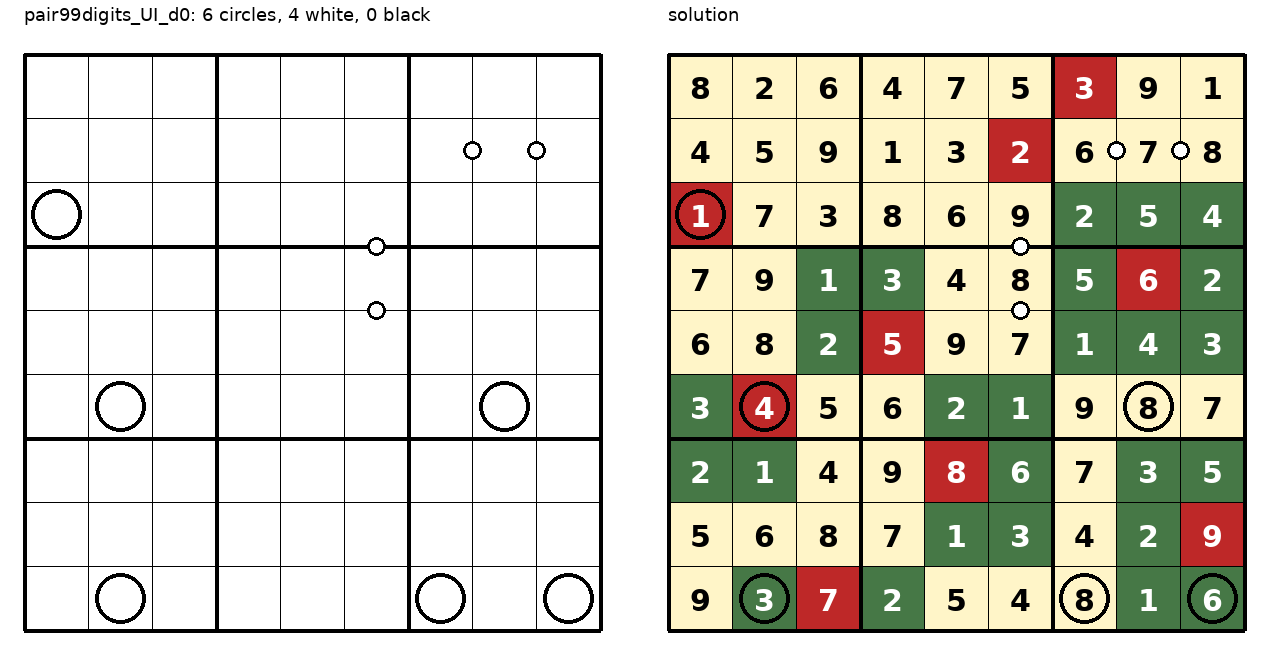
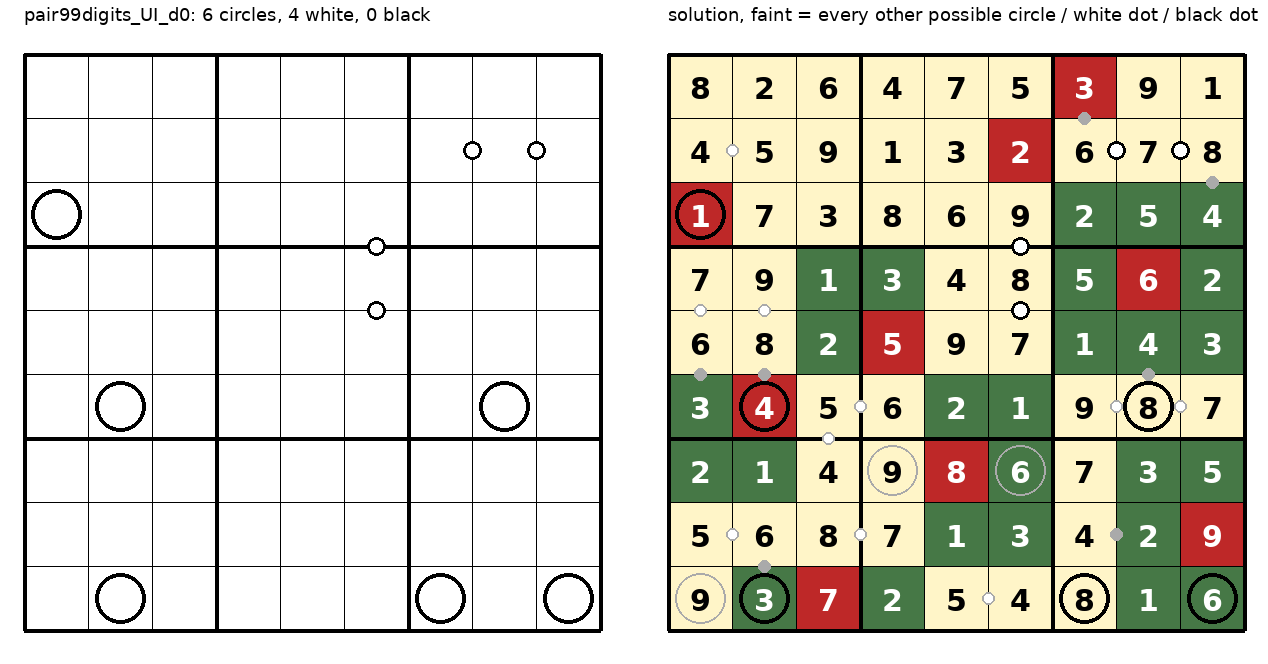
zombo-brainanas: unique renders show every possible clue faintly on the solution

diff --git a/docs/research/zombo-brainanas/tools/render_unique.py b/docs/research/zombo-brainanas/tools/render_unique.py
@@ -1,5 +1,6 @@
 """render_unique.py unique.json out.png — two panels: the puzzle as presented (circles + dots on an empty grid)
-and the solution (digits, shading: green infected, red patient zero, cream uninfected) with the same clues."""
+and the solution (digits, shading: green infected, red patient zero, cream uninfected) with the chosen clues in full
+strength and every other possible circle, white dot and black dot drawn faintly."""
 import json, sys, os
 from PIL import Image, ImageDraw, ImageFont
 F = "/home/caneff/orca/workspaces/sudokumaker-custom-constraints/tang/docs/research/zombo-brainanas/found/"
@@ -10,6 +11,28 @@ font = ImageFont.truetype("/usr/share/fonts/truetype/dejavu/DejaVuSans-Bold.ttf"
 small = ImageFont.truetype("/usr/share/fonts/truetype/dejavu/DejaVuSans.ttf", 18)
 circles = {tuple(p) for p in u["circles"]}
 box = lambda r, c: (r // 3) * 3 + c // 3 + 1
+def comps(val):
+    seen, out = set(), []
+    for r in range(N):
+        for c in range(N):
+            if (d["infected"][r][c] == "*") == val and (r, c) not in seen:
+                st, cur = [(r, c)], []; seen.add((r, c))
+                while st:
+                    a, b = st.pop(); cur.append((a, b))
+                    for q in ((a+1, b), (a-1, b), (a, b+1), (a, b-1)):
+                        if 0 <= q[0] < N and 0 <= q[1] < N and (d["infected"][q[0]][q[1]] == "*") == val and q not in seen: seen.add(q); st.append(q)
+                out.append(cur)
+    return out
+allc = {p for val in (True, False) for comp in comps(val) for p in comp if int(d["grid"][p[0]][p[1]]) == len(comp)}
+allw, allb = [], []
+for r in range(N):
+    for c in range(N):
+        for a, b in ((r+1, c), (r, c+1)):
+            if a >= N or b >= N: continue
+            i1, i2 = d["infected"][r][c] == "*", d["infected"][a][b] == "*"; v1, v2 = int(d["grid"][r][c]), int(d["grid"][a][b])
+            if not i1 and not i2 and abs(v1 - v2) == 1: allw.append([r, c, a, b])
+            if i1 != i2 and (v2 == 2 * v1 if i1 else v1 == 2 * v2): allb.append([r, c, a, b])
+FAINT = (170, 170, 170)
 def panel(ox, title, solved):
     dr.text((ox + M, 4), title, fill="black", font=small)
     oy = 30
@@ -20,6 +43,7 @@ def panel(ox, title, solved):
             fill = ((190, 40, 40) if pz else (70, 120, 70) if inf else (255, 245, 200)) if solved else "white"
             dr.rectangle([x0, y0, x0 + C, y0 + C], fill=fill)
             if (r, c) in circles: dr.ellipse([x0 + 7, y0 + 7, x0 + C - 7, y0 + C - 7], outline="black", width=4)
+            elif solved and (r, c) in allc: dr.ellipse([x0 + 7, y0 + 7, x0 + C - 7, y0 + C - 7], outline=FAINT, width=2)
             if solved:
                 t = d["grid"][r][c]; bb = dr.textbbox((0, 0), t, font=font)
                 dr.text((x0 + C / 2 - (bb[2] - bb[0]) / 2, y0 + C / 2 - (bb[3] - bb[1]) / 2 - 4), t, fill="white" if inf else "black", font=font)
@@ -27,10 +51,14 @@ def panel(ox, title, solved):
         w = 4 if i % 3 == 0 else 1
         dr.line([ox + M + i * C, oy + M, ox + M + i * C, oy + M + N * C], fill="black", width=w)
         dr.line([ox + M, oy + M + i * C, ox + M + N * C, oy + M + i * C], fill="black", width=w)
-    for kind, edges in (("white", u.get("white", [])), ("black", u.get("black", []))):
+    chosen = {tuple(e) for e in u.get("white", [])} | {tuple(e) for e in u.get("black", [])}
+    layers = [("white", u.get("white", []), False), ("black", u.get("black", []), False)]
+    if solved: layers = [("white", [e for e in allw if tuple(e) not in chosen], True), ("black", [e for e in allb if tuple(e) not in chosen], True)] + layers
+    for kind, edges, faint in layers:
         for r, c, a, b in edges:
             cx, cy = ox + M + (c + b + 1) * C / 2, oy + M + (r + a + 1) * C / 2
-            dr.ellipse([cx - 9, cy - 9, cx + 9, cy + 9], fill="white" if kind == "white" else "black", outline="black", width=3)
+            if faint: dr.ellipse([cx - 6, cy - 6, cx + 6, cy + 6], fill="white" if kind == "white" else FAINT, outline=FAINT, width=2)
+            else: dr.ellipse([cx - 9, cy - 9, cx + 9, cy + 9], fill="white" if kind == "white" else "black", outline="black", width=3)
 panel(0, f"{u['fill']}: {len(circles)} circles, {len(u.get('white', []))} white, {len(u.get('black', []))} black", False)
-panel(W + 20, "solution", True)
+panel(W + 20, "solution, faint = every other possible circle / white dot / black dot", True)
 img.save(sys.argv[2])
